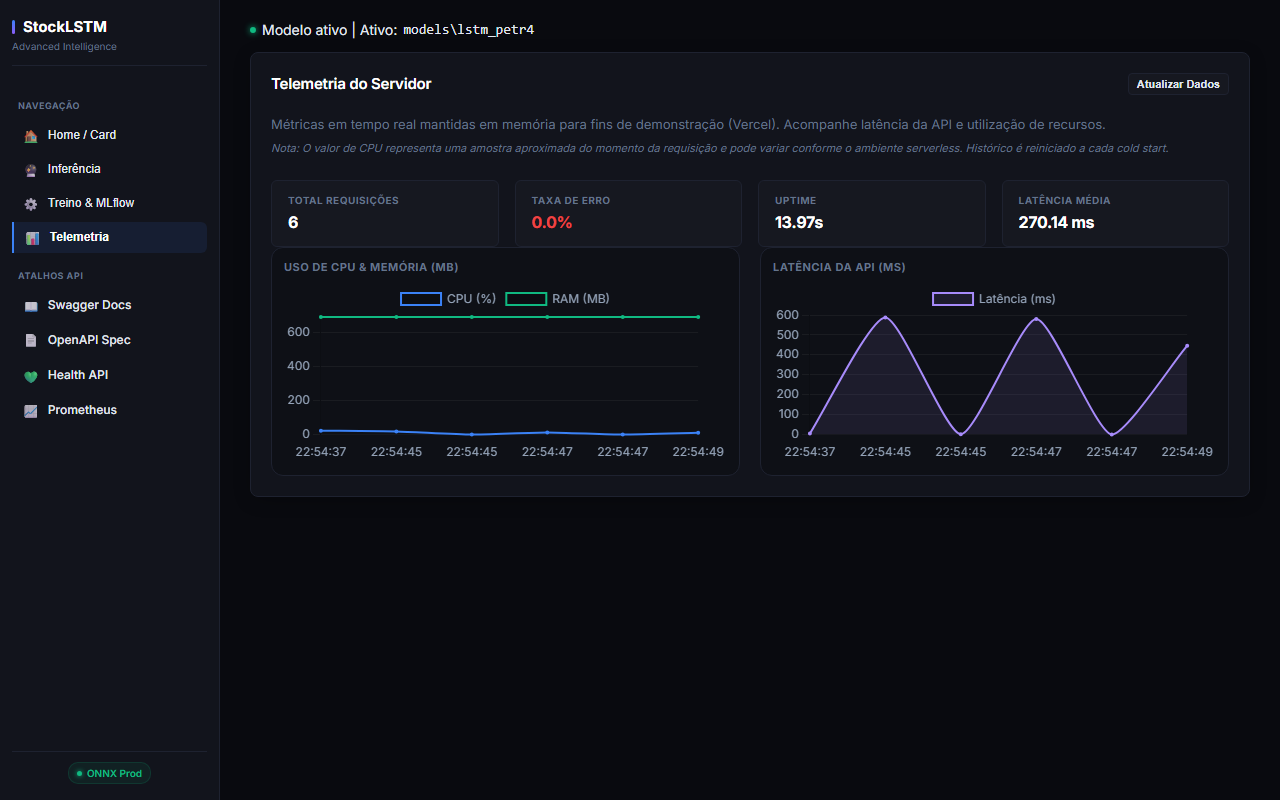
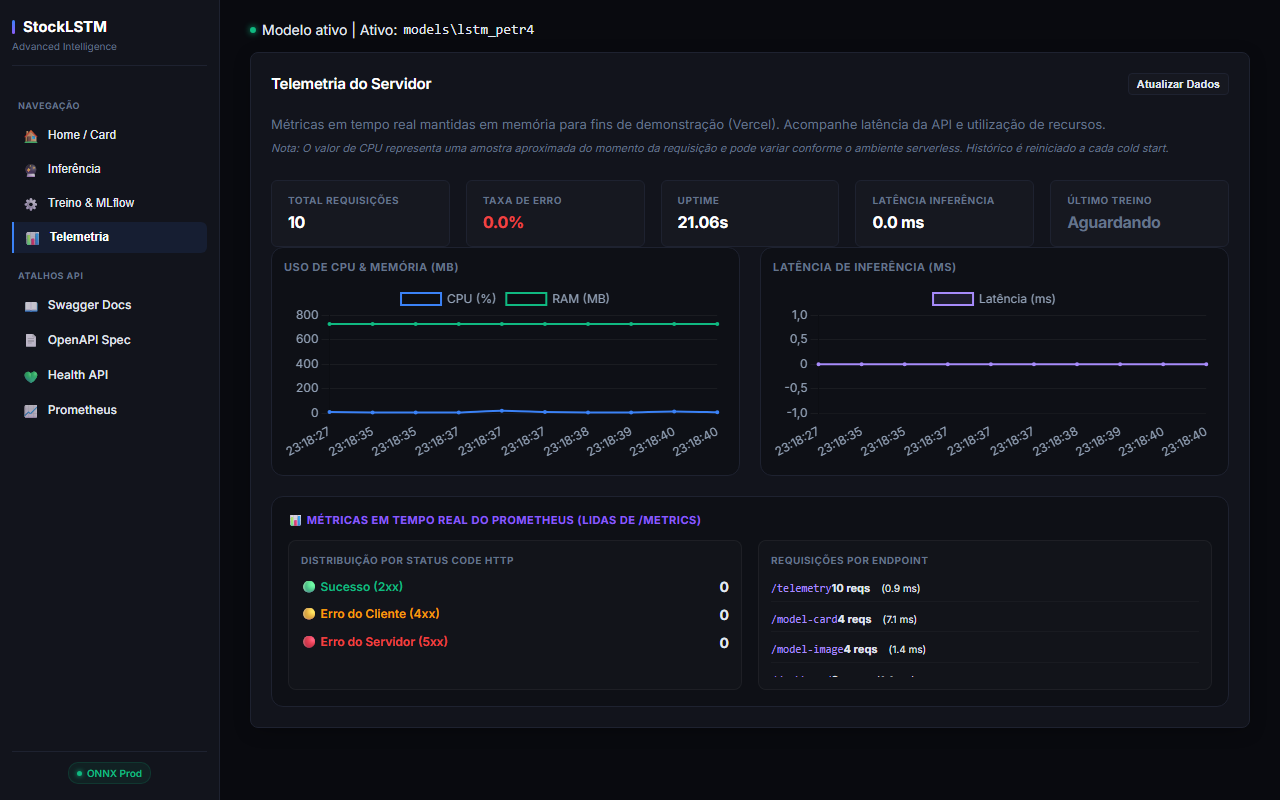
atualizado telas de asset

diff --git a/scratch/take_screenshots.py b/scratch/take_screenshots.py
@@ -1,3 +1,13 @@
+"""
+Script para tirar screenshots das abas do dashboard.
+
+Para rodar:
+poetry run python scratch/take_screenshots.py
+
+Requer: poetry install --with=dev
+
+"""
+
 import asyncio
 import os
 from playwright.async_api import async_playwright